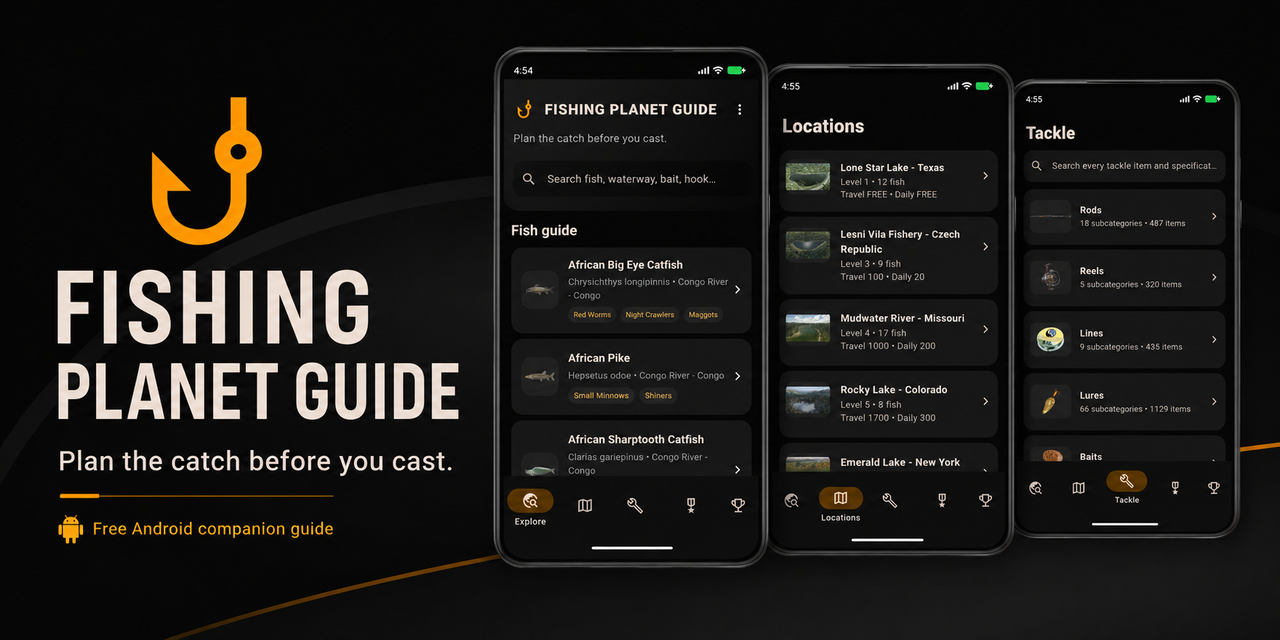
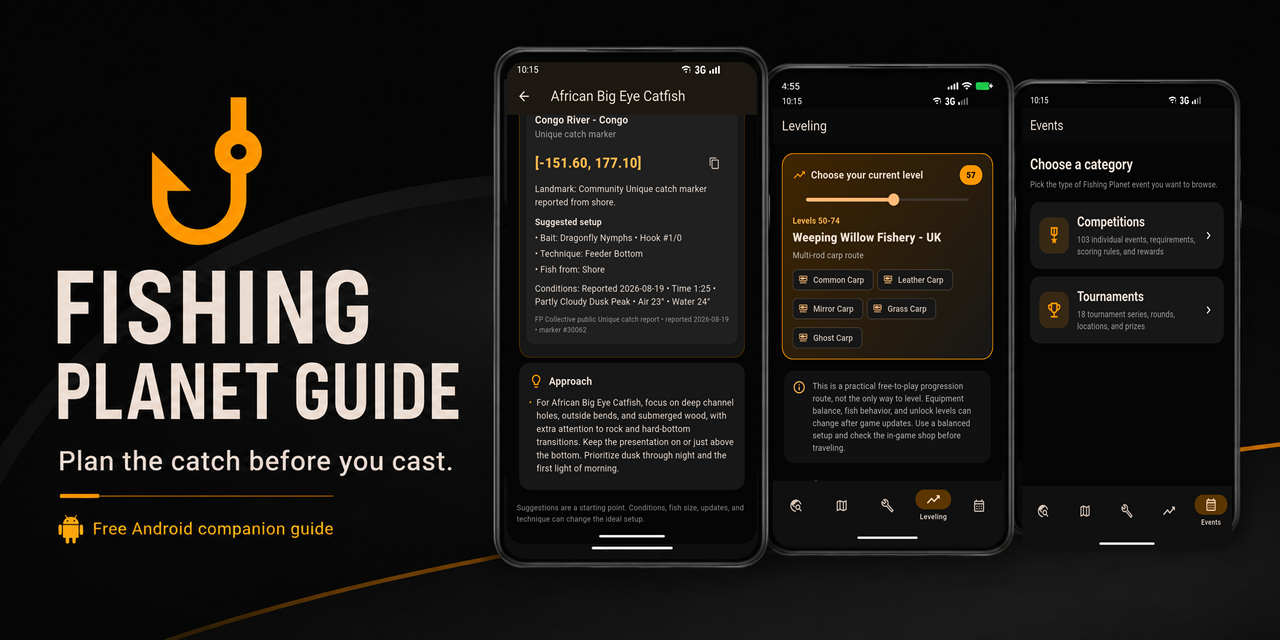
Refresh promo artwork with current app screens

diff --git a/index.html b/index.html
@@ -21,7 +21,7 @@
     />
     <meta
       property="og:image"
-      content="https://joesmeltser.github.io/fishing-planet-guide/social-preview.png"
+      content="https://joesmeltser.github.io/fishing-planet-guide/social-preview.png?v=6"
     />
     <meta property="og:url" content="https://joesmeltser.github.io/fishing-planet-guide/" />
     <meta name="twitter:card" content="summary_large_image" />
@@ -32,7 +32,7 @@
     />
     <meta
       name="twitter:image"
-      content="https://joesmeltser.github.io/fishing-planet-guide/social-preview.png"
+      content="https://joesmeltser.github.io/fishing-planet-guide/social-preview.png?v=6"
     />
     <link rel="canonical" href="https://joesmeltser.github.io/fishing-planet-guide/" />
     <link rel="icon" href="app-icon.png" />
@@ -155,7 +155,7 @@
         <div class="hero-visual">
           <div class="preview-frame">
             <img
-              src="social-preview.png"
+              src="social-preview.png?v=6"
               alt="Fishing Planet Guide shown on three Android phones"
               width="1280"
               height="640"
@@ -184,7 +184,7 @@
           <p>See the standout hotspot and leveling tools first, followed by the complete fish, location, tackle, and events reference.</p>
         </div>
         <div class="promo-video-frame">
-          <video controls playsinline preload="metadata" poster="social-preview.png">
+          <video controls playsinline preload="metadata" poster="social-preview.png?v=6">
             <source src="media/fishing-planet-guide-promo.mp4?v=5" type="video/mp4" />
             Your browser does not support embedded video.
           </video>

diff --git a/README.md b/README.md
@@ -4,7 +4,7 @@ An unofficial Android companion centered on fish hotspot coordinates, complete s
 
 **[Visit the app website](https://joesmeltser.github.io/fishing-planet-guide/)** · [Download the latest Android APK](https://github.com/joesmeltser/fishing-planet-guide/releases/latest)
 
-![Fishing Planet Guide for Android](social-preview.png)
+![Fishing Planet Guide for Android](social-preview.png?v=6)
 
 ## Watch the app tour
 
